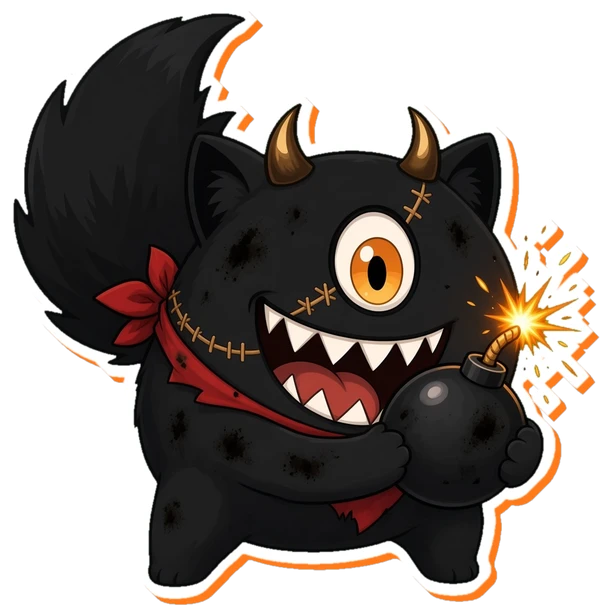
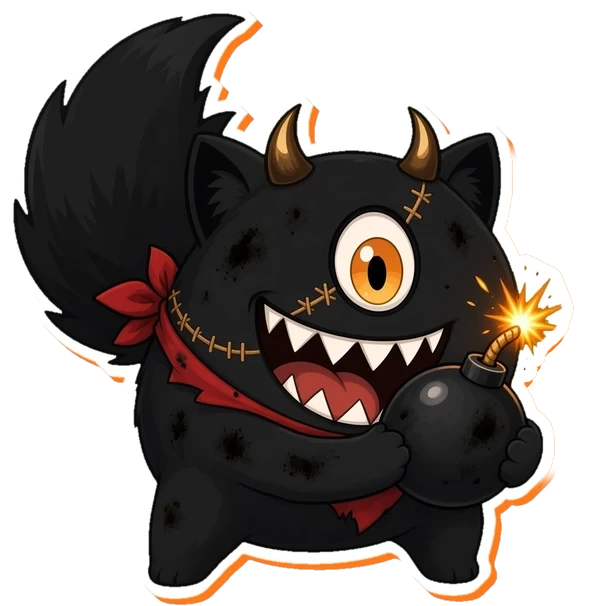
Quiz: fix stretched creature images (height:auto, contain); clean Chaos bomb sparks; v7

Changed region(s): [[0.84, 0.2376, 1.0, 0.802]]

diff --git a/creature/index.html b/creature/index.html
@@ -64,7 +64,7 @@ details.note summary{cursor:pointer;font-weight:700;color:var(--o)}details.note 
 .back{display:inline-block;margin:1.5rem 0 0;font-weight:800;text-decoration:none;color:var(--o)}
 #embers{position:fixed;inset:0;width:100vw;height:100vh;z-index:1;pointer-events:none}.over>*{position:relative;z-index:2}.ht{z-index:2}.logo img{width:clamp(120px,34vw,230px)!important}.fn{font-size:.75rem;opacity:.65;font-style:italic;line-height:1.5;margin-top:1rem;border-top:1px solid rgba(255,255,255,.15);padding-top:.6rem}.fn code{font-style:normal;font-size:.95em}.app ul{margin-bottom:1.8rem}.app>div>p:has(+a.btn){margin-bottom:1.8rem}.app a.btn+p.note,.app a.btn~p.note{margin-top:1.4rem!important}.app a.btn{display:inline-block;margin-bottom:.5rem}</style><link rel="stylesheet" href="css/fx.css?v=2"><link rel="canonical" href="https://kitsuranines.com/creature/"><style>.sr-only{position:absolute!important;width:1px;height:1px;padding:0;margin:-1px;overflow:hidden;clip:rect(0,0,0,0);white-space:nowrap;border:0}
 .qz{max-width:680px;margin:0 auto;text-align:center}
-.qz .hero-img{width:min(240px,60vw);filter:drop-shadow(0 0 18px rgba(255,106,0,.35));animation:bob 3s ease-in-out infinite}
+.qz .hero-img{width:min(240px,60vw);height:auto;object-fit:contain;filter:drop-shadow(0 0 18px rgba(255,106,0,.35));animation:bob 3s ease-in-out infinite}
 @keyframes bob{50%{transform:translateY(-8px) rotate(-2deg)}}
 .qz p.lead{font-size:1.1rem;line-height:1.55;margin:1rem auto;max-width:46ch}
 .qz button.btn{border:0;cursor:pointer;font:inherit;font-weight:800;font-size:1rem}
@@ -74,14 +74,14 @@ details.note summary{cursor:pointer;font-weight:700;color:var(--o)}details.note 
 .ans{display:grid;gap:.7rem}.ans button{all:unset;cursor:pointer;display:block;text-align:left;padding:1rem 1.1rem;border:2px solid var(--w);font-weight:700;font-size:1.05rem;background:rgba(11,11,11,.6);transition:.15s}
 .ans button:hover,.ans button:focus-visible{background:var(--o);color:var(--b);border-color:var(--o);transform:rotate(-1deg)}
 .res{border:2px solid var(--o);background:rgba(11,11,11,.85);padding:1.4rem 1.2rem;box-shadow:8px 8px 0 var(--o)}
-.res img{width:min(300px,70vw);height:auto}
+.res img{width:min(300px,70vw);height:auto;object-fit:contain}
 .res .you{font-weight:800;letter-spacing:.15em;text-transform:uppercase;font-size:.85rem;opacity:.8}
 .res h3{font-family:'Mister Brush','Permanent Marker',cursive;font-weight:400;font-size:clamp(2.2rem,9vw,3.6rem);color:#fff;text-shadow:.06em .05em 0 #ff6a00;transform:skewX(-8deg) rotate(-2deg);margin:.3rem 0}
 .res .tl{color:var(--o);font-weight:800;font-size:1.15rem}.res p.ds{line-height:1.6;margin:1rem auto;max-width:48ch}
 .res .btns{justify-content:center}
 [hidden]{display:none!important}
 </style></head><body><nav class="nav"><a href="static-hollow/">Ref Sheets / Lore</a><a href="apps.html">Apps</a><a href="cameos.html">Cameos</a><a href="index.html#discord">Socials</a><a href="https://uwumarket.us/collections/kitsura-nines" target="_blank" rel="noopener">Merch</a></nav><main class="over" style="min-height:100vh"><section><h1 class="sr-only">Which Dubious Creature Are You?</h1><div class="qz">
-<div id="intro"><h2 style="justify-content:center">Which Dubious Creature Are You?</h2><img class="hero-img" src="creature/img/chaos.webp?v=2" alt="A dubious creature holding a lit bomb" width="300" height="300"><p class="lead">The dubious creatures gather wherever Nines is being watched. Individually, they are ridiculous. In groups, they become concerning. Answer 10 questions to find out which one <b>you</b> are.</p><div class="btns" style="justify-content:center"><button class="btn o" id="go">&#9654; Start the quiz</button></div></div>
+<div id="intro"><h2 style="justify-content:center">Which Dubious Creature Are You?</h2><img class="hero-img" src="creature/img/chaos.webp?v=7" alt="A dubious creature holding a lit bomb" width="300" height="300"><p class="lead">The dubious creatures gather wherever Nines is being watched. Individually, they are ridiculous. In groups, they become concerning. Answer 10 questions to find out which one <b>you</b> are.</p><div class="btns" style="justify-content:center"><button class="btn o" id="go">&#9654; Start the quiz</button></div></div>
 <div id="quiz" hidden><div class="prog"><i id="bar" style="width:0"></i></div><div class="qn" id="qn"></div><div class="qt" id="qt"></div><div class="ans" id="ans"></div></div>
 <div id="result" hidden><div class="res"><div class="you" id="you">You are the</div><img id="ri" src="" alt="" width="300" height="300"><h3 id="rn"></h3><div class="tl" id="rt"></div><p class="ds" id="rd"></p><div class="btns"><a class="btn o" id="share" href="#" target="_blank" rel="noopener">Share on X</a><button class="btn" id="again">Retake</button></div></div><p class="note" style="margin-top:1.4rem;border:0">Chaos reigns. Results may vary.</p></div>
 </div></section>
@@ -93,7 +93,7 @@ function ask(){const q=QS[qi];$('bar').style.width=(qi/QS.length*100)+'%';$('qn'
  const a=$('ans');a.innerHTML='';[...q[1]].sort(()=>Math.random()-.5).forEach(x=>{const b=document.createElement('button');b.textContent=x[0];b.onclick=()=>{sc[x[1]]+=2;sc[x[2]]+=1;qi++;qi<QS.length?ask():finish()};a.appendChild(b)});a.querySelector('button').focus({preventScroll:true})}
 function start(){qi=0;sc={};K.forEach(k=>sc[k]=0);history.replaceState(null,'','creature/');show('quiz');ask();scrollTo(0,0)}
 function finish(){const m=Math.max(...K.map(k=>sc[k])),t=K.filter(k=>sc[k]==m),r=t[Math.random()*t.length|0];history.replaceState(null,'','creature/?r='+r);result(r,true);if(window.goatcounter&&goatcounter.count)goatcounter.count({path:'creature/result/'+r,title:TYPES[r].n,event:true})}
-function result(r,mine){const T=TYPES[r];$('you').textContent=mine?'You are the':'Someone got the';$('ri').src='creature/img/'+r+'.webp?v='+(r==='roger'?6:4);$('ri').alt=T.n;$('rn').textContent=T.n;$('rt').textContent=T.t;$('rd').textContent=T.d;
+function result(r,mine){const T=TYPES[r];$('you').textContent=mine?'You are the':'Someone got the';$('ri').src='creature/img/'+r+'.webp?v=7';$('ri').alt=T.n;$('rn').textContent=T.n;$('rt').textContent=T.t;$('rd').textContent=T.d;
  const txt=`I'm a ${T.n}! "${T.t}" Which dubious creature are you? Take @kitsuranines' quiz 🦊`;
  $('share').href='https://x.com/intent/post?text='+encodeURIComponent(txt)+'&url='+encodeURIComponent('https://kitsuranines.com/creature/?r='+r);
  $('again').textContent=mine?'Retake':'Take the quiz';show('result');scrollTo(0,0)}
